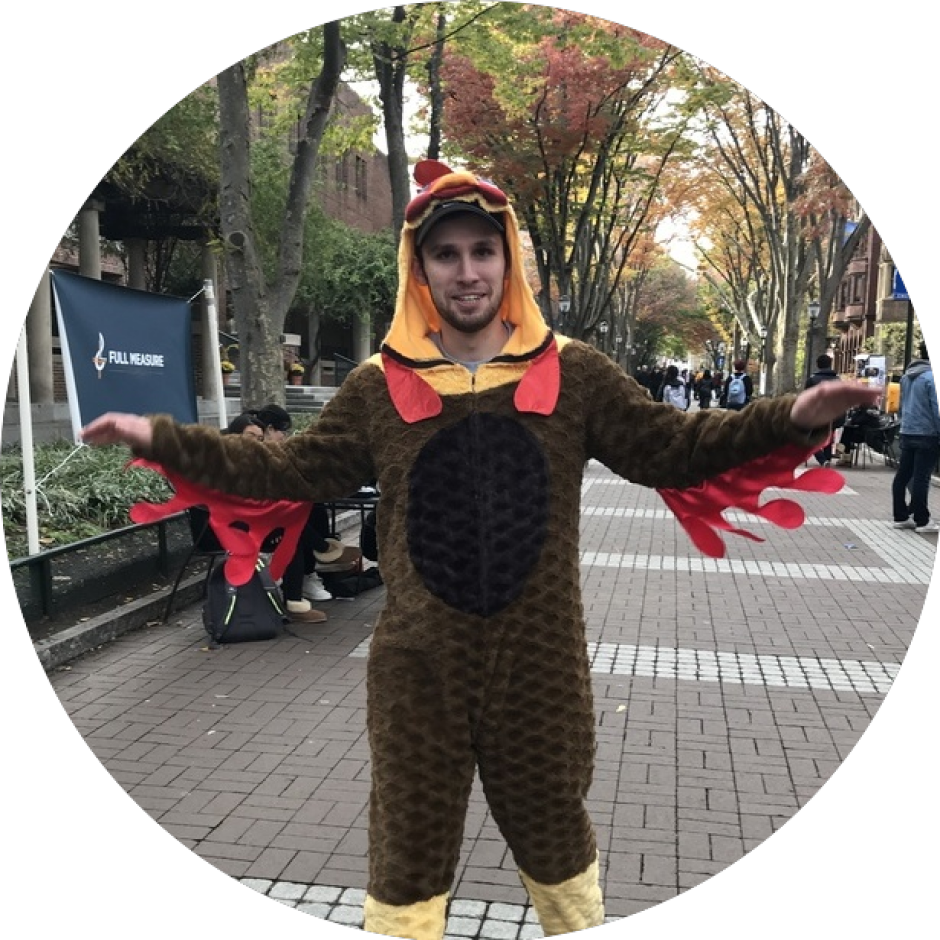
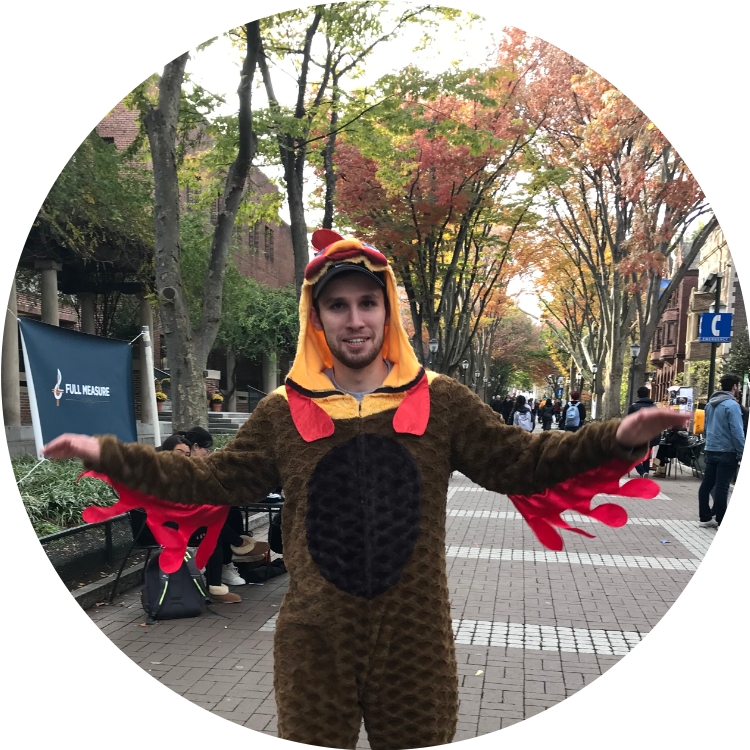
added profile photos to aboutpage

diff --git a/views/about.html b/views/about.html
@@ -54,7 +54,7 @@
         <img class = "scroll-down" onclick = "scrollDown()" src = "/graphics/dark-down-arrow.png"></img>
         <div class = "employees" id = "employees">
             <div class = "employee-card left-card">
-                <img class = "employee-photo" src = "/graphics/aboutpage/circle-placeholder.png" width="250" height = "250"></img>
+                <img class = "employee-photo" src = "/graphics/aboutpage/nate-circle.png" width="250" height = "250"></img>
                 <p class = "first-name bold-font dark-font">Nate</p>
                 <p class = "last-name bold-font dark-font">Rush</p>
                 <p class = "employee-title standard-font dark-font">Cofounder</p>
@@ -62,14 +62,14 @@
 
             </div>
             <div class = "employee-card">
-                <img class = "employee-photo" src = "/graphics/aboutpage/circle-placeholder.png" width="250" height = "250"></img>
+                <img class = "employee-photo" src = "/graphics/aboutpage/aaron-circle.png" width="250" height = "250"></img>
                 <p class = "first-name bold-font dark-font">Aaron</p>
                 <p class = "last-name bold-font dark-font">Diamond-Reivich</p>
                 <p class = "employee-title standard-font dark-font">Cofounder</p>
                 <p class = "email standard-font dark-font">aaron@saga.com</p>
             </div>
             <div class = "employee-card right-card">
-                <img class = "employee-photo" src = "/graphics/aboutpage/circle-placeholder.png" width="250" height = "250"></img>
+                <img class = "employee-photo" src = "/graphics/aboutpage/jake-circle.png" width="250" height = "250"></img>
                 <p class = "first-name bold-font dark-font">Jake</p>
                 <p class = "last-name bold-font dark-font">Diamond-Reivich</p>
                 <p class = "employee-title standard-font dark-font">Cofounder</p>
